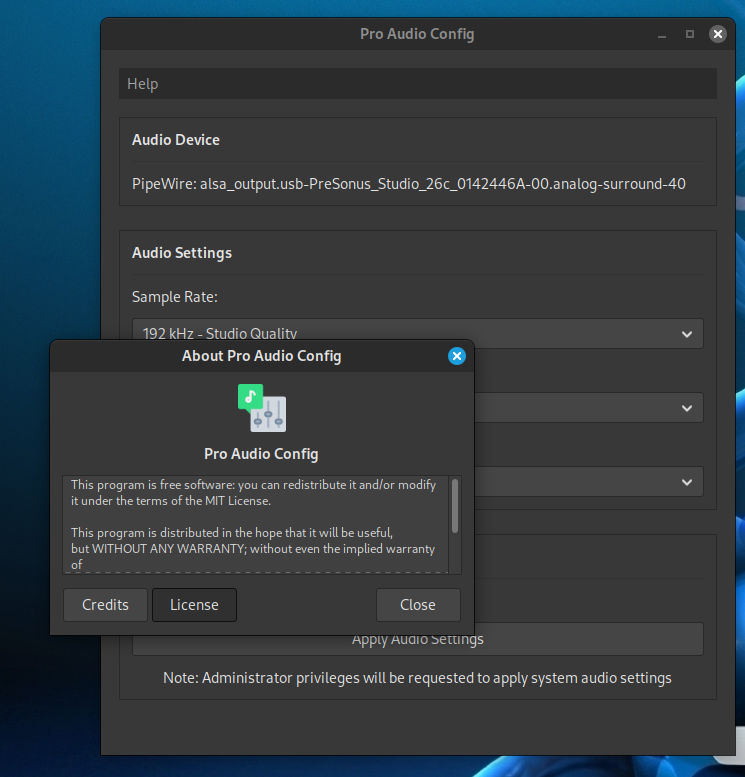
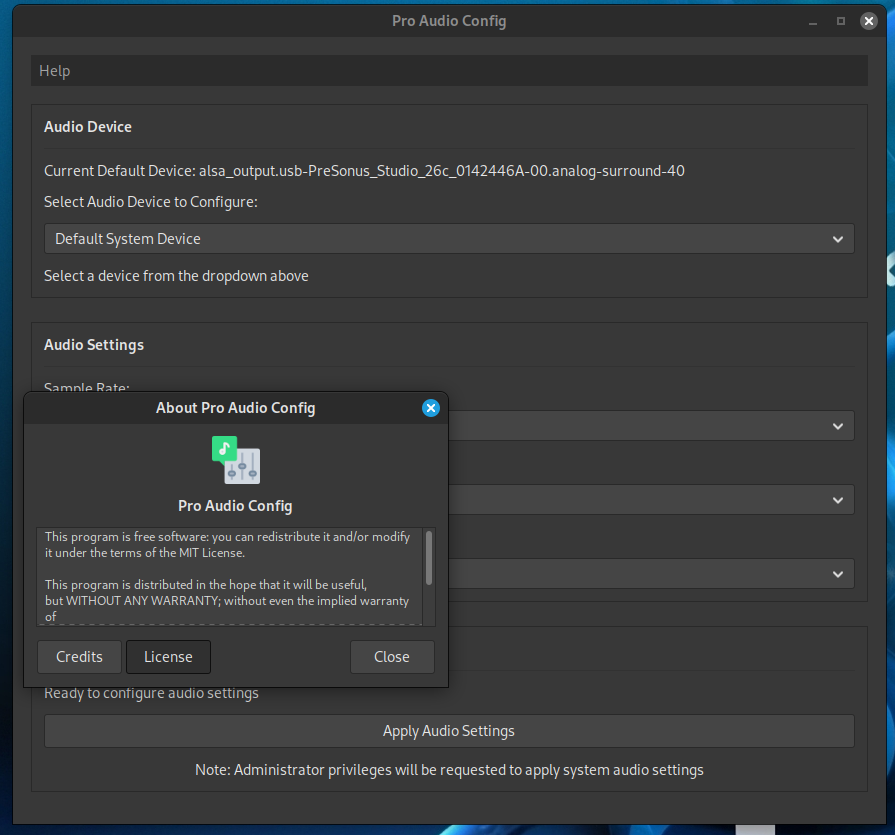
docs(README.md): Adding new screenshots and updateing readme

diff --git a/README.md b/README.md
@@ -205,7 +205,7 @@ For support and questions:
 ## Roadmap
 
 - [ ] Package manager support
-- [ ] Setting all available devices in one session
+- [x] Setting all available devices in one session
 - [ ] Additional audio backends (JACK)
 - [ ] Preset configurations
 - [ ] Advanced audio routing
